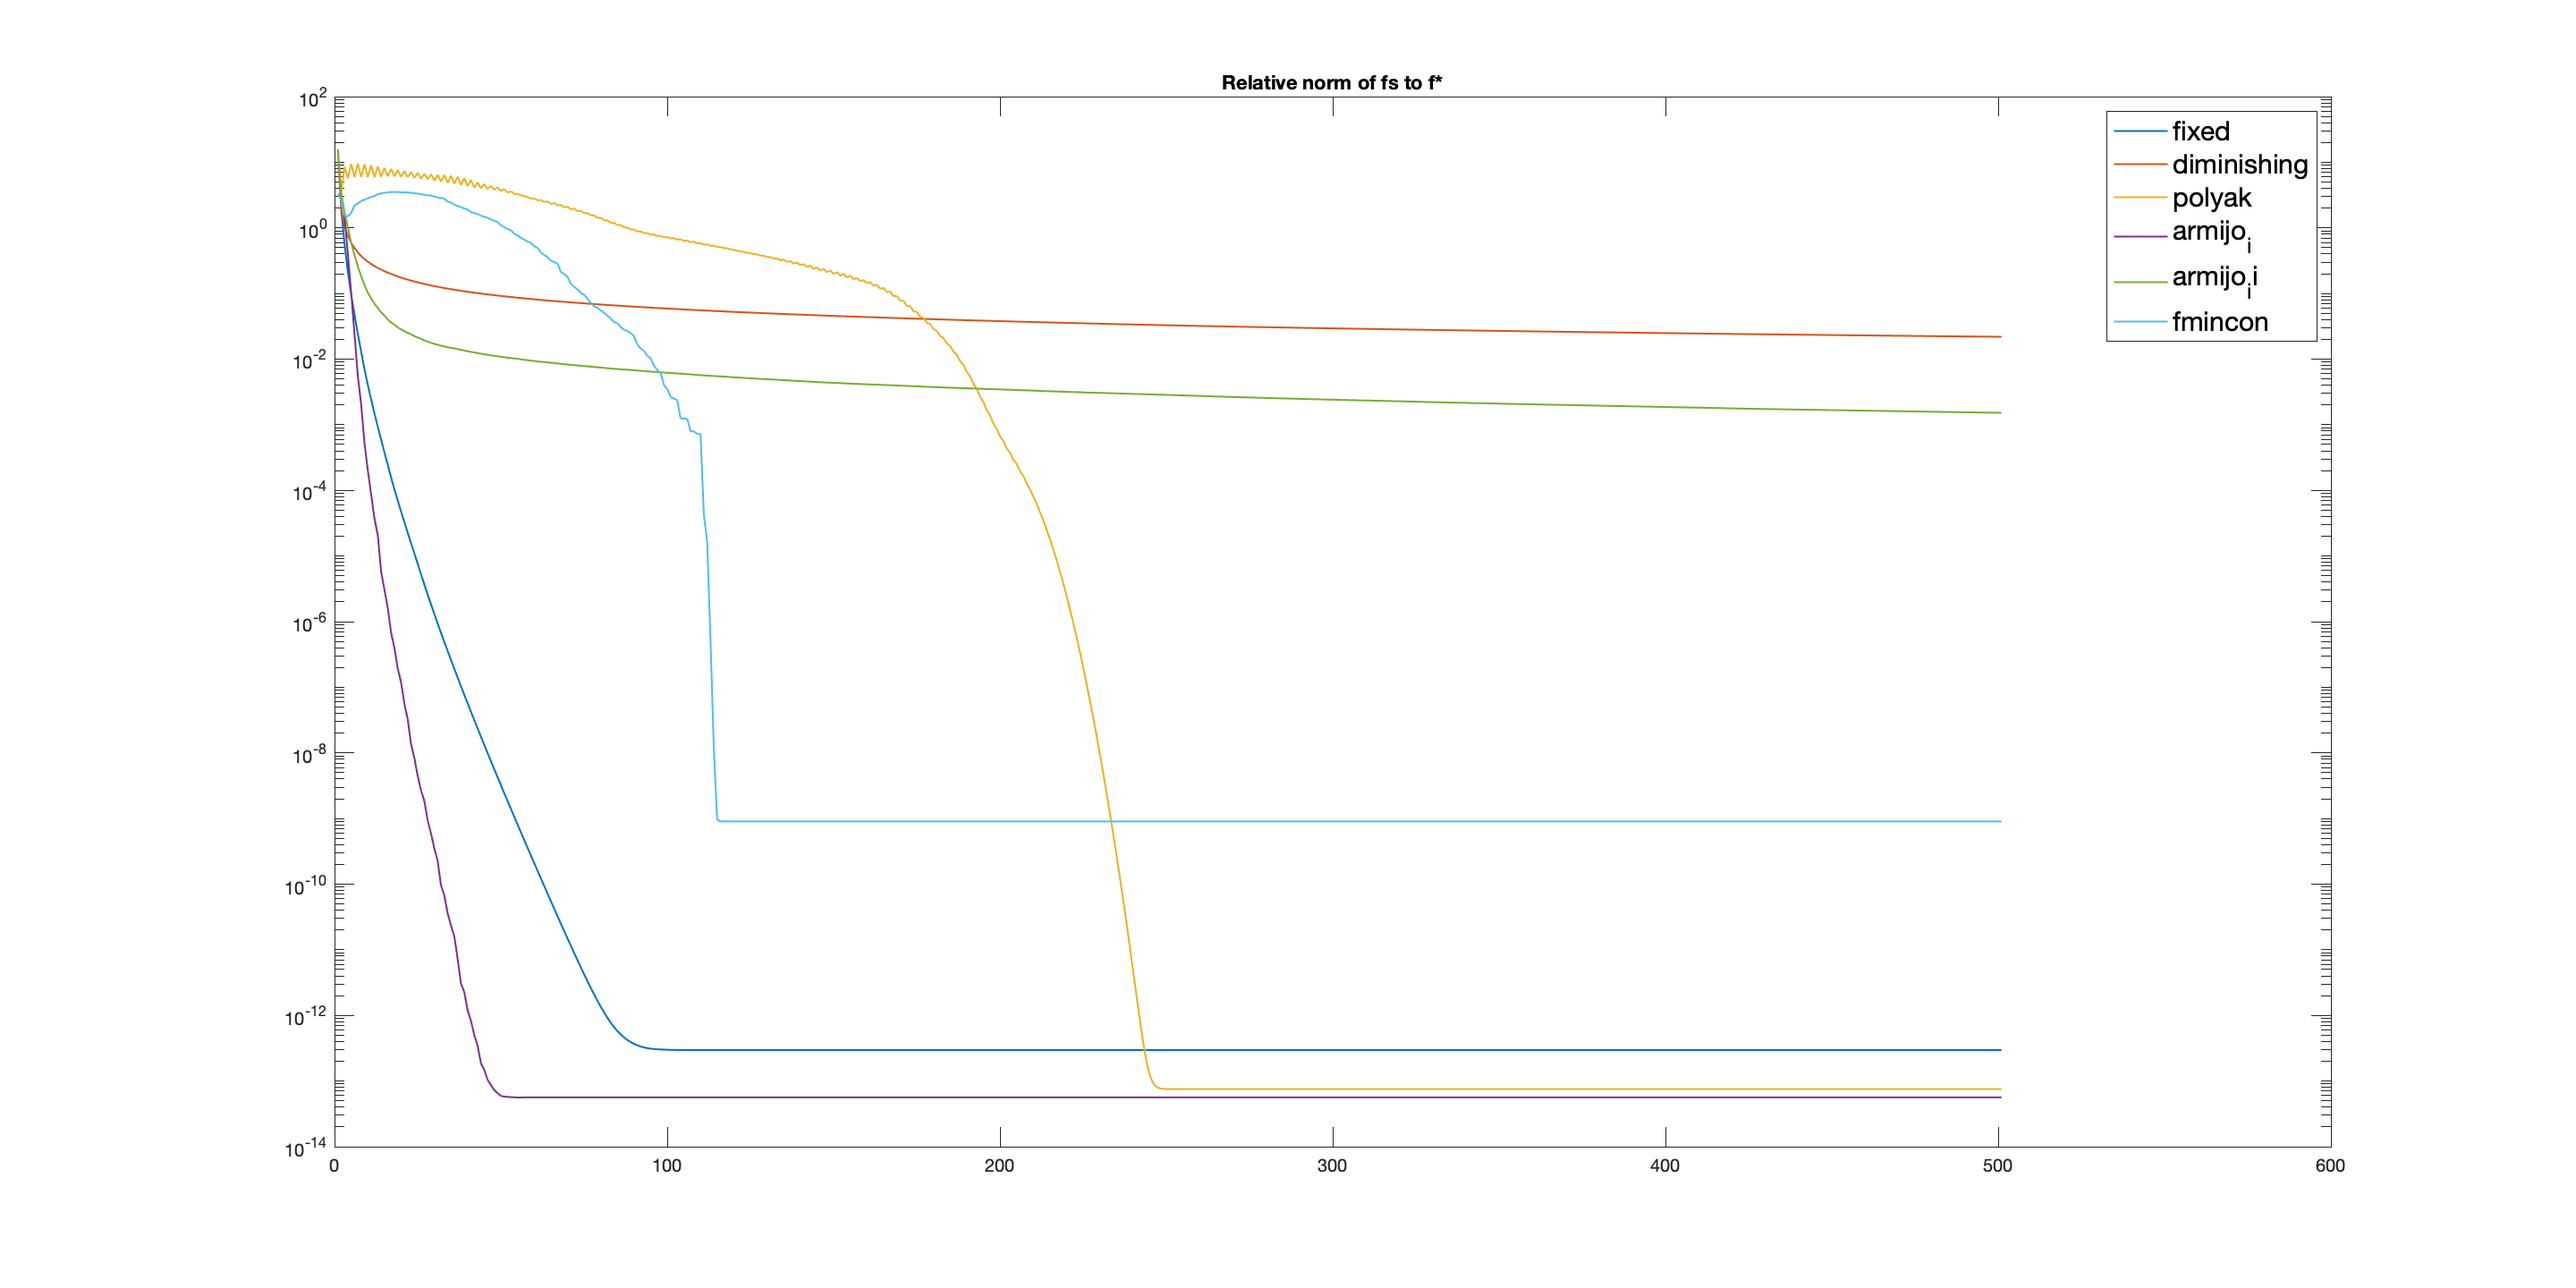
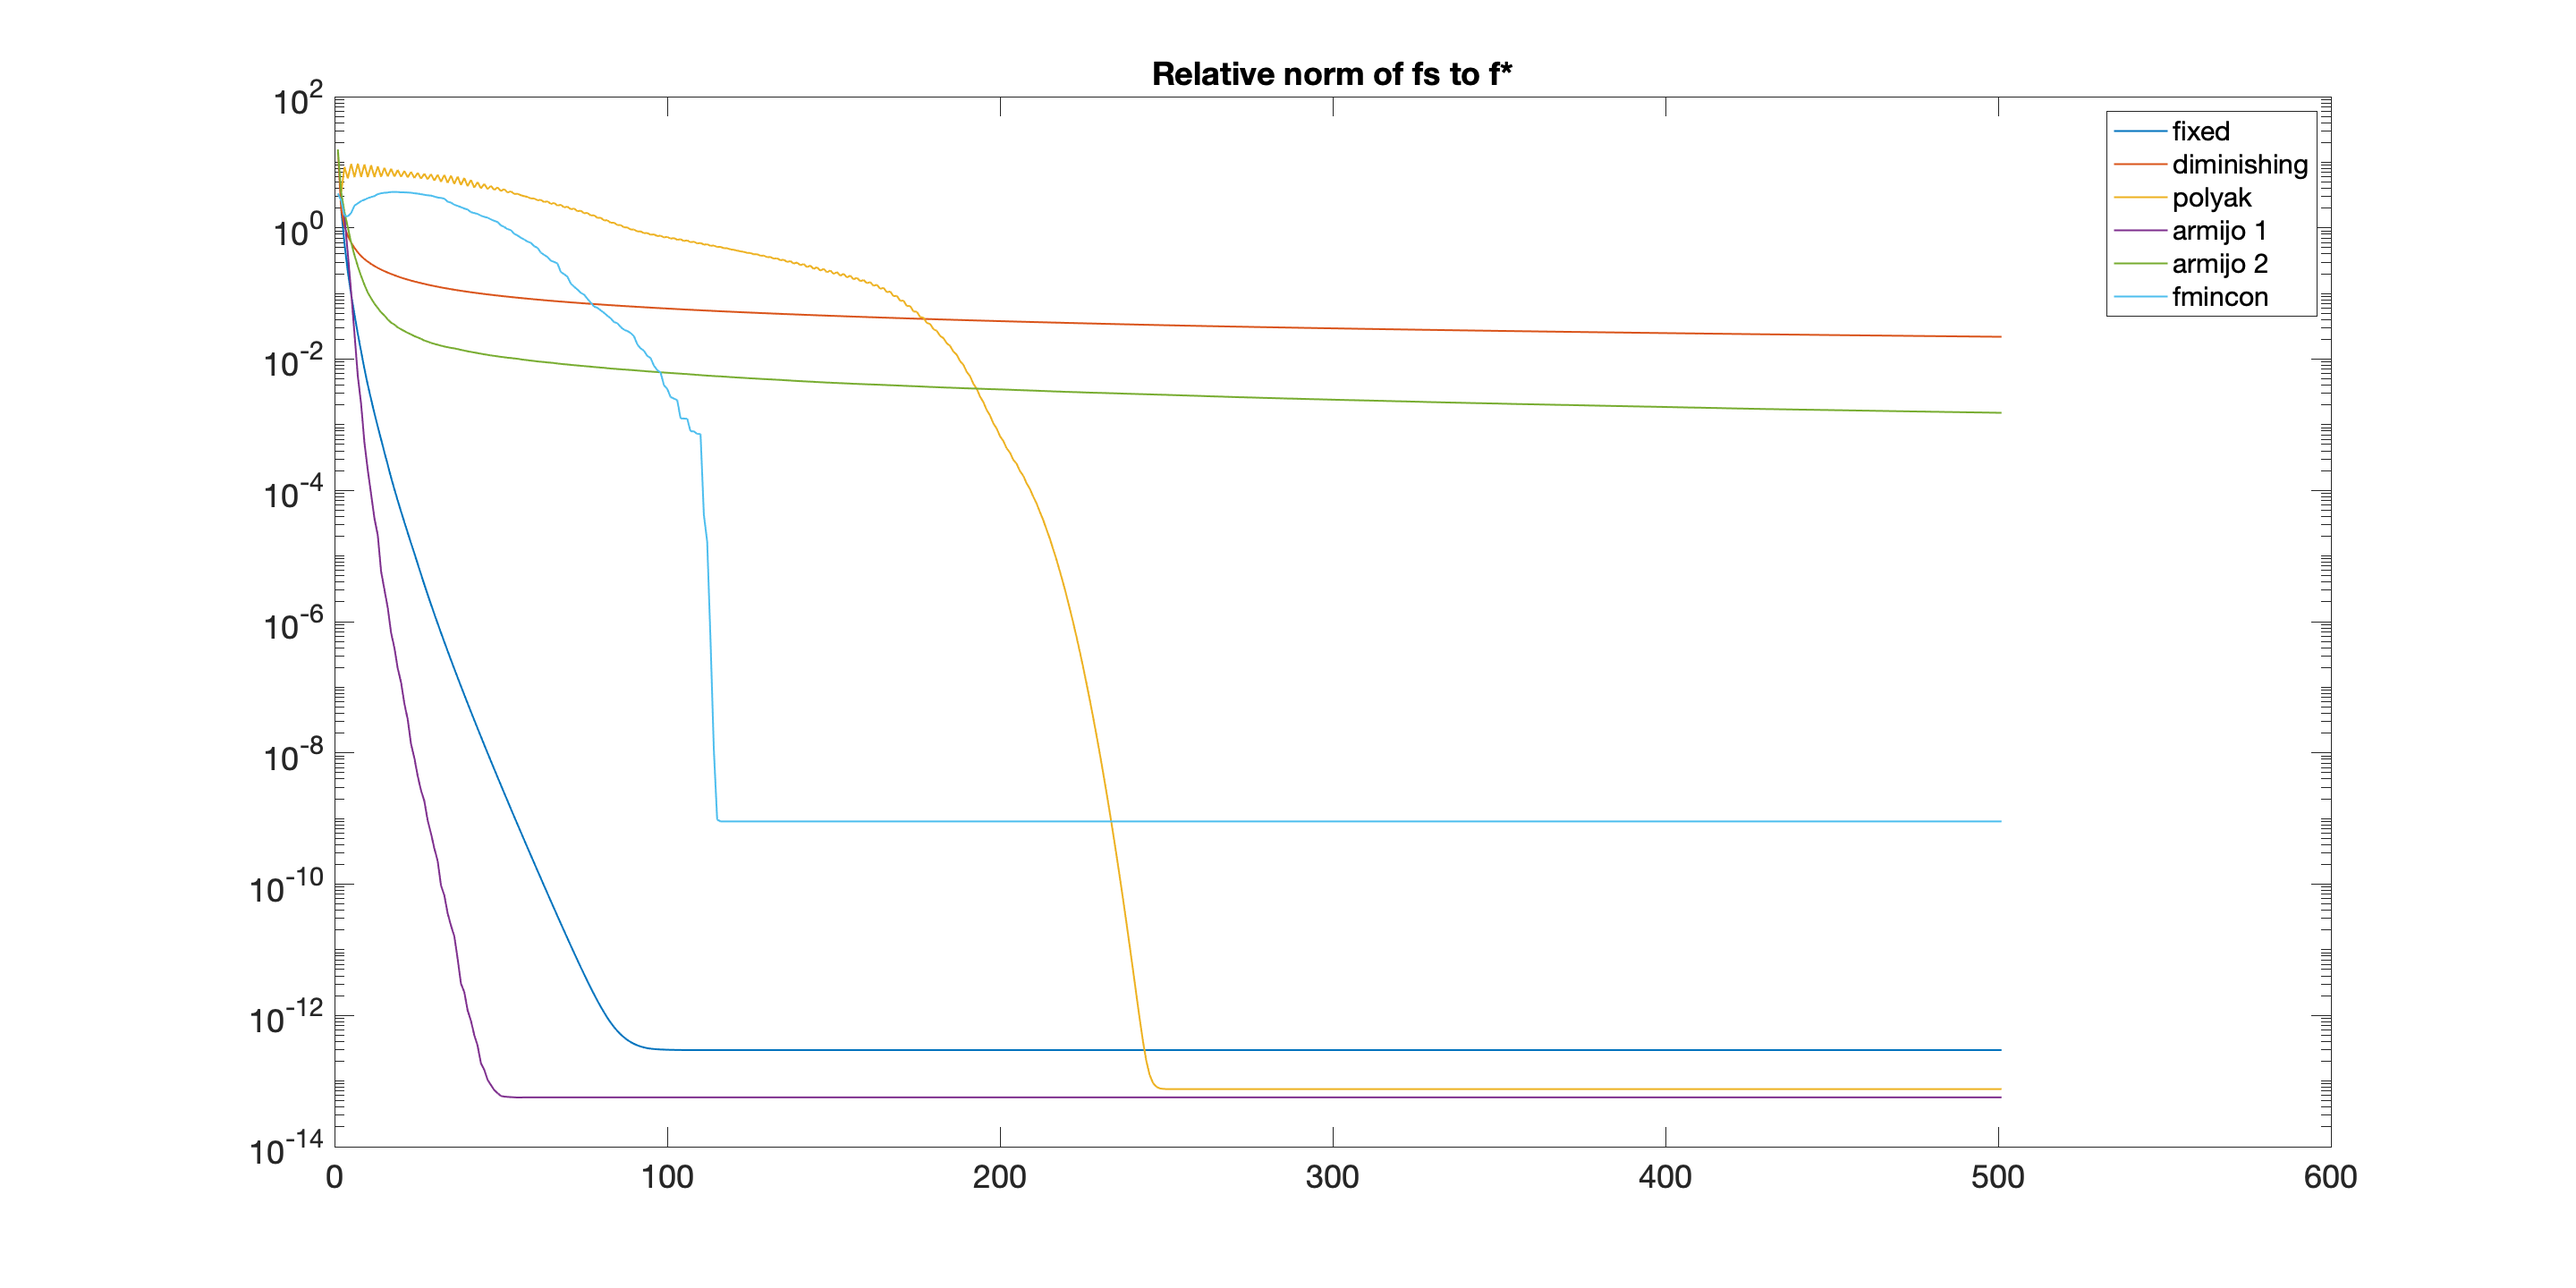
redo plot, report: add plot descr

diff --git a/src/experiments.m b/src/experiments.m
@@ -241,6 +241,7 @@ fprintf("relative error on the f reached fmincon step size, mean %d, var %d\n\n"
 % title('Relative norm of xs to x*');
 % hold off
 
+figure('DefaultAxesFontSize',18);
 semilogy(f_s_kqp_mean_fs, 'LineWidth',1);
 hold on
 semilogy(f_s_kqp_mean_diminishing, 'LineWidth',1);
@@ -248,10 +249,10 @@ semilogy(f_s_kqp_mean_polyak, 'LineWidth',1);
 semilogy(f_s_kqp_mean_armijo_i, 'LineWidth',1);
 semilogy(f_s_kqp_mean_armijo_ii, 'LineWidth',1);
 semilogy(f_s_fmincon_mean, 'LineWidth',1);
-lgd = legend('fixed','diminishing', 'polyak', 'armijo_i', 'armijo_ii', 'fmincon');
+lgd = legend('fixed','diminishing', 'polyak', 'armijo 1', 'armijo 2', 'fmincon');
 lgd.FontSize = 15;
 
-title('Relative norm of fs to f*');
+title('Relative norm of fs to f*', 'FontSize', 18);
 hold off
 
 
